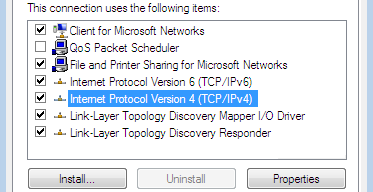
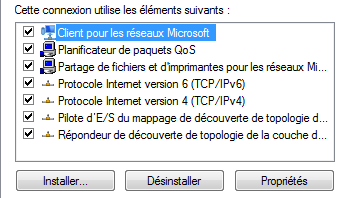
Capture d'écran maintenant en français. La page 35 est à sa place.
git-svn-id: file:///home/svn-br/infobr/trunk@2685 163b7697-d90c-4444-a4e3-743dfff665aa

diff --git a/config_win.tex b/config_win.tex
@@ -131,8 +131,8 @@ et de choisir l'installation simplifi\'ee !
 
 \paragraph{Inscription sur le domaine Windows}
 
-On te rappelle que tu ne peux t'inscrire sur le domaine que si tu utilises
-Windows 2000, Windows XP Pro ou Windows Vista. Si tu poss\`edes Windows XP
+On te rappelle que tu ne peux t'inscrire sur le domaine que si tu utilise
+Windows 2000, Windows XP Pro ou Windows Vista. Si tu poss\`ede Windows XP
 Familial, Windows Vista Home ou encore une version ant\'erieure de Windows,
 tu dois effectuer toi-m\^eme tes r\'eglages de pare-feu et de proxy
 \app{Windows Update}. R\'ef\`ere-toi pour cela \`a l'annexe ad hoc \`a la fin de
@@ -277,9 +277,17 @@ Si tu ne sais pas si ton Windows est 64 ou 32 bits, le plus problable est qu'il
 soit 32 bits, donc tu peux commencer \`a essayer avec cette version.
 
 Une fois le fichier ad\'equat t\'el\'echarg\'e, ouvre l'archive compress\'ee \file{Win\?\?\_*.zip}, d\'ecompresse \emph{tous les fichiers} dans un dossier, et
-enfin ex\'ecute le fichier \file{setup.exe} qui vient d'appara\^itre dans ce dossier. A partir de l\`a, tu n'as plus qu'\`a suivre les instructions du
-programme d'installation. Tu n'auras alors plus \`a toucher \`a l'antivirus, celui-ci sera mis \`a jour automatiquement.
+enfin ex\'ecute le fichier \file{setup.exe} qui vient d'apparaitre dans ce dossier. A partir de l\`a, tu n'as plus qu'\`a suivre les instructions du
+programme d'installation. Tu n'auras alors plus \`a toucher \`a l'antivirus, celui-ci sera mis \`a jour automatiquement.\footnote[11]{Pour des raisons historiques, cette page porte le num\'ero 31. L'explication se trouve en page 11.}
 
+% Pour le RTFIBRp11
+\setcounter{page}{35}
+
+\noindent\rule{.4\textwidth}{.4pt}
+
+\vfill \pagebreak
+
+\setcounter{page}{12}
 
 \subsubsection{Configuration web (proxy)}
 
@@ -317,7 +325,7 @@ d\'etaill\'ees dans le manuel r\'edig\'e par la DSI.
 La proc\'edure suivante fonctionne aussi avec \app{Windows Mail}.
 Lance \app{Outlook Express} et va dans le menu \menu{Outils},
 \menu{Comptes\ldots}. Clique sur le bouton \menu{Ajouter\ldots} en
-haut \`a droite, puis sur \menu{Courrier\ldots}, pour \app{Windows Mail} c'est sur compte de messagerie qu'il faut cliquer, avant d'appuyer sur suivant.
+haut \`a droite, puis sur \menu{Courrier\ldots}, pour \app{Windows Mail} c'est sur compte de messagerie qu'il faut cliquer, avat d'appuyer sur suivant.
 
 Remplis les \'ecrans de configuration suivants avec ces donn\'ees :
 \begin{description}
@@ -339,15 +347,6 @@ puis sur \menu{Propri\'et\'es}. Clique sur l'onglet \menu{Avanc\'e} et
 configure comme sur la capture~\ref{config:win:mail} ; en
 particulier, coche la seconde case \menu{Ce serveur n\'ecessite une
 connexion s\'ecuris\'ee (SSL)}.
-
-% Pour le RTFIBRp11
-\setcounter{page}{34}
-
-\noindent\rule{.4\textwidth}{.4pt}
-
-\noindent{\footnotesize Pour des raisons historiques, cette page porte le num\'ero 31. L'explication se trouve en page 11.} \vfill \pagebreak
-
-\setcounter{page}{12}
 
 Comme \c{c}a, tu peux d\'esormais recevoir des mails, avec une liaison
 s\'ecuris\'ee vers \server{poly} pour que personne ne puisse les
@@ -407,15 +406,15 @@ Parmi les plus simples on trouve \app{FileZilla Server} et \app{GuildFTP}, qui s
 \subsubsection{Autres logiciels utiles}
 
 \begin{itemize}
-  \item \app{qRezix} : Un programme d\'evelopp\'e par le BR pour faciliter la vie sur le r\'eseau,
+  \item qRezix : Un programme d\'evelopp\'e par le BR pour faciliter la vie sur le r\'eseau,
                   \`a r\'ecup\'erer sur \xshare. Pour plus de d\'etails, voir le paragraphe consacr\'ee
                   \`a \app{qRezix} \`a la page \pageref{qrezix}.
-  \item \app{XChat} : Un client IRC directement issu du monde Unix.
+  \item XChat : Un client IRC directement issu du monde Unix.
                  Tu peux te reporter \`a la page \pageref{irc} pour plus d'infos sur l'IRC.
-  \item \app{WinSCP} : Un logiciel pratique qui te permet de te connecter en salle info.
+  \item WinSCP : Un logiciel pratique qui te permet de te connecter en salle info.
                   Tu peux le r\'ecup\'erer lui aussi sur \xshare ;
                   son fonctionnement est expliqu\'e en d\'etails dans le Wikix. Voir aussi \app{Putty}, aussi dans le \xshare.
-  \item \app{vlc} : Un logiciel qui te permettra de recevoir la t\'el\'evision directement dans ton casert, afin d'\^etre vraiment s\^{u}r d'avoir autre chose \`a faire que travailler les veilles de p\^ales. Configuration page \pageref{TV}.
+  \item vlc : Un logiciel qui te permettra de recevoir la t\'el\'evision directement dans ton casert, afin d'\^etre vraiment s\^{u}r d'avoir autre chose \`a faire que travailler les veilles de p\^ales. Configuration page \pageref{TV}.
 \end{itemize}
 
 
